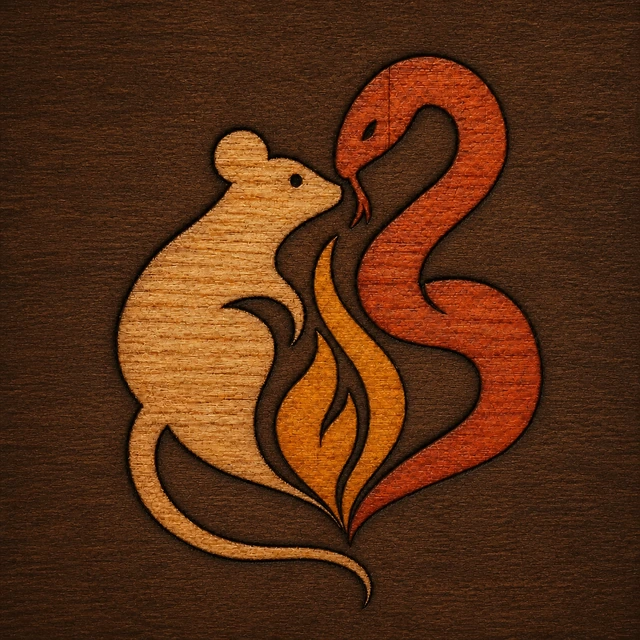
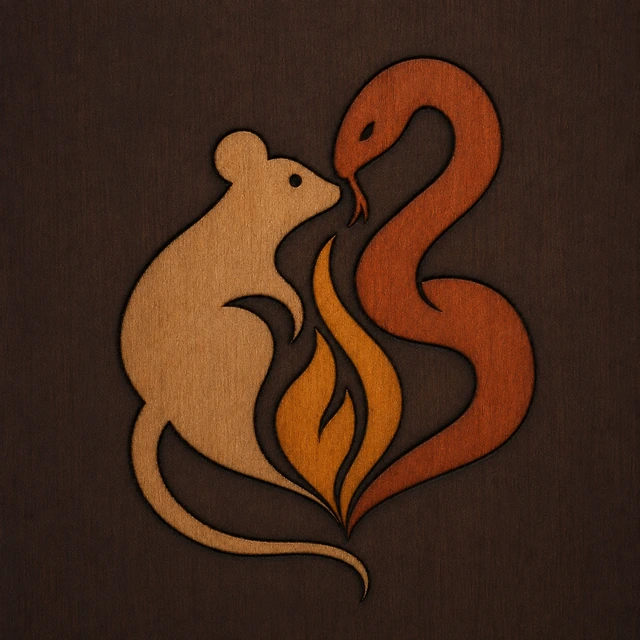
Refine loader tiles and raise wood tray

diff --git a/frontend/src/components/SlidePuzzleLoader.tsx b/frontend/src/components/SlidePuzzleLoader.tsx
@@ -34,6 +34,7 @@ type PuzzleTheme = {
   frameShadow: string
   well: string
   wellShadow: string
+  lipShadow: string
   tileRest: string
   tileLift: string
 }
@@ -43,23 +44,25 @@ const THEMES: Record<Theme, PuzzleTheme> = {
     // Match the .app-shell ground gradient (index.css) so the loader blends
     // into the sand page instead of reading as a white panel over it.
     scene: 'radial-gradient(circle at 100% 0%, rgba(196,84,50,0.08), transparent 62vw), linear-gradient(180deg, #f2e7d2, #e9dcc3)',
-    tileImg: 'url("/puzzle-wood-solid.webp?v=20260902-solid")',
+    tileImg: 'url("/puzzle-wood-solid.webp?v=20260902-fine")',
     label: '#1e3a2f',
     frame: 'linear-gradient(158deg, rgba(151,107,72,0.10), rgba(28,12,5,0.28)), url("/wood-walnut.png") center / cover',
-    frameShadow: 'inset 0 3px 0 rgba(255,225,180,0.10), inset 0 -8px 16px rgba(24,10,4,0.58), 0 34px 44px -12px rgba(62,32,15,0.55)',
+    frameShadow: 'inset 5px 5px 9px rgba(255,225,180,0.12), inset -7px -9px 14px rgba(19,7,3,0.64), 0 7px 0 #241108, 0 36px 46px -12px rgba(62,32,15,0.58)',
     well: 'linear-gradient(158deg, rgba(30,13,6,0.34), rgba(10,4,1,0.54)), url("/wood-walnut.png") center / cover',
     wellShadow: 'inset 0 4px 12px rgba(10,4,1,0.72), inset 0 -2px 0 rgba(239,199,143,0.07)',
+    lipShadow: 'inset 0 0 0 4px rgba(31,13,6,0.94), inset 8px 8px 11px rgba(10,4,1,0.56), inset -4px -4px 7px rgba(190,132,86,0.16)',
     tileRest: 'inset 0 2px 0 rgba(255,230,190,0.10), inset 0 -4px 8px rgba(20,7,2,0.34), 0 5px 0 #251208, 0 7px 9px rgba(24,9,3,0.40)',
     tileLift: 'inset 0 2px 0 rgba(255,230,190,0.14), inset 0 -4px 8px rgba(20,7,2,0.34), 0 8px 0 #251208, 0 16px 22px rgba(24,9,3,0.50)',
   },
   locked: {
     scene: 'radial-gradient(circle at 78% 8%, rgba(196,84,50,0.18), transparent 520px), linear-gradient(180deg, #132e25, #0e1f19)',
-    tileImg: 'url("/puzzle-wood-light.webp?v=20260902-light")',
+    tileImg: 'url("/puzzle-wood-light.webp?v=20260902-fine")',
     label: '#f2e9db',
     frame: 'linear-gradient(158deg, rgba(255,241,210,0.08), rgba(112,65,29,0.16)), url("/wood-oak.png") center / cover',
-    frameShadow: 'inset 0 3px 0 rgba(255,247,220,0.34), inset 0 -8px 16px rgba(91,52,22,0.38), 0 34px 48px -12px rgba(0,0,0,0.55)',
+    frameShadow: 'inset 5px 5px 9px rgba(255,247,220,0.42), inset -7px -9px 14px rgba(91,52,22,0.42), 0 7px 0 #80532d, 0 36px 50px -12px rgba(0,0,0,0.58)',
     well: 'linear-gradient(158deg, rgba(137,87,43,0.22), rgba(78,43,18,0.38)), url("/wood-oak.png") center / cover',
     wellShadow: 'inset 0 4px 12px rgba(57,29,11,0.58), inset 0 -2px 0 rgba(255,229,179,0.16)',
+    lipShadow: 'inset 0 0 0 4px rgba(111,70,33,0.72), inset 8px 8px 11px rgba(57,29,11,0.42), inset -4px -4px 7px rgba(255,241,207,0.30)',
     tileRest: 'inset 0 2px 0 rgba(255,248,224,0.16), inset 0 -4px 8px rgba(69,35,13,0.28), 0 5px 0 #76502c, 0 7px 9px rgba(35,17,6,0.38)',
     tileLift: 'inset 0 2px 0 rgba(255,248,224,0.22), inset 0 -4px 8px rgba(69,35,13,0.28), 0 8px 0 #76502c, 0 16px 22px rgba(35,17,6,0.48)',
   },
@@ -209,8 +212,8 @@ export function SlidePuzzleLoader({
             style={{
               position: 'relative',
               zIndex: 1,
-              padding: '16px',
-              borderRadius: '28px',
+              padding: '20px',
+              borderRadius: '31px',
               background: TH.frame,
               boxShadow: TH.frameShadow,
             }}
@@ -252,6 +255,17 @@ export function SlidePuzzleLoader({
                 }
                 return <div key={id} aria-hidden="true" style={tileStyle} />
               })}
+              <div
+                aria-hidden="true"
+                style={{
+                  position: 'absolute',
+                  inset: '-1px',
+                  borderRadius: '17px',
+                  boxShadow: TH.lipShadow,
+                  pointerEvents: 'none',
+                  zIndex: 10,
+                }}
+              />
             </div>
           </div>
         </div>

diff --git a/design/icon-concepts/2026-09-02-wood-block-burn/export_app_icons.py b/design/icon-concepts/2026-09-02-wood-block-burn/export_app_icons.py
@@ -8,7 +8,8 @@ from PIL import Image, ImageFilter
 HERE = Path(__file__).resolve().parent
 REPO = HERE.parents[2]
 SOURCE_DARK = HERE / "wood-block-burn-v2-solid-background.png"
-SOURCE_LIGHT = HERE / "wood-block-burn-v3-light-background.png"
+PUZZLE_DARK = HERE / "wood-block-burn-v4-fine-dark.png"
+PUZZLE_LIGHT = HERE / "wood-block-burn-v5-fine-light.png"
 PUBLIC = REPO / "frontend" / "public"
 RESAMPLE = Image.Resampling.LANCZOS
 
@@ -46,16 +47,17 @@ def maskable_icon(source: Image.Image) -> Image.Image:
 
 def main() -> None:
     dark = Image.open(SOURCE_DARK).convert("RGB")
-    light = Image.open(SOURCE_LIGHT).convert("RGB")
-    for source in (dark, light):
+    puzzle_dark = Image.open(PUZZLE_DARK).convert("RGB")
+    puzzle_light = Image.open(PUZZLE_LIGHT).convert("RGB")
+    for source in (dark, puzzle_dark, puzzle_light):
         if source.width != source.height:
             raise ValueError(f"Expected a square source, got {source.size}")
 
     save_webp(resized(dark, 512), "icon-512.webp")
     save_webp(resized(dark, 192), "icon-192.webp")
     save_webp(maskable_icon(dark), "icon-512-maskable.webp")
-    save_webp(resized(dark, 640), "puzzle-wood-solid.webp")
-    save_webp(resized(light, 640), "puzzle-wood-light.webp")
+    save_webp(resized(puzzle_dark, 640), "puzzle-wood-solid.webp")
+    save_webp(resized(puzzle_light, 640), "puzzle-wood-light.webp")
 
     resized(dark, 180).save(PUBLIC / "apple-touch-icon.png", "PNG", optimize=True)
     dark.save(

diff --git a/design/icon-concepts/2026-09-02-wood-block-burn/README.md b/design/icon-concepts/2026-09-02-wood-block-burn/README.md
@@ -1,8 +1,8 @@
 # Wood-block burn texture study
 
 Texture exploration for the production rat, snake, and flame mark. The selected
-solid-background revision supplies the installed app icons and the
-sliding-puzzle loader.
+solid-background revision supplies the installed app icons; the finer-grained
+dark and light revisions supply the sliding-puzzle loader.
 
 The production icon's composition and silhouettes are held fixed. Only the
 surface treatment changes, with the cream rat, terracotta snake, and gold flame
@@ -11,8 +11,8 @@ rendered as stained pyrography with restrained charred edges.
 Generated with the built-in image-generation edit flow using
 `frontend/public/icon-512.webp` as the edit target.
 
-Production exports are generated deterministically from
-`wood-block-burn-v2-solid-background.png`:
+Production exports are generated deterministically from the versioned sources
+in this directory:
 
 ```bash
 uv run --with pillow python \
@@ -47,6 +47,26 @@ smoked-walnut rat.
 > crop, padding, positions, proportions, negative spaces, internal cutouts,
 > burned outlines, and silhouettes. Keep the snake terracotta and the flame
 > amber gold. No seams, tiles, panels, new objects, text, glow, or watermark.
+
+## Fine-grain loader revisions
+
+`wood-block-burn-v4-fine-dark.png` and
+`wood-block-burn-v5-fine-light.png` replace the coarse embossed grain in the
+loader tiles with fine, low-contrast wood fibers. The earlier dark source stays
+in place for the installed app icon.
+
+Both revisions use the same edit instruction, paired with the appropriate dark
+or pale fine-grain reference and the matching v2/v3 artwork target:
+
+> Change only the wood surface texture so every wooden region uses a much
+> finer, tighter, lower-contrast grain like the supplied material reference.
+> Remove the existing coarse, embossed, pebbled grain. Preserve the exact
+> square crop, padding, rat, snake, three-part flame, positions, proportions,
+> negative spaces, eye shapes, internal cutouts, colors, burned outlines, and
+> complete silhouette. Keep the pyrography edge treatment while making only
+> the interior surface grain finer and subtler. No geometry changes, redraw,
+> seams, tiles, new objects, text, watermark, pencil lines, exaggerated grain,
+> or glossy finish.
 
 ## Prompt
 
